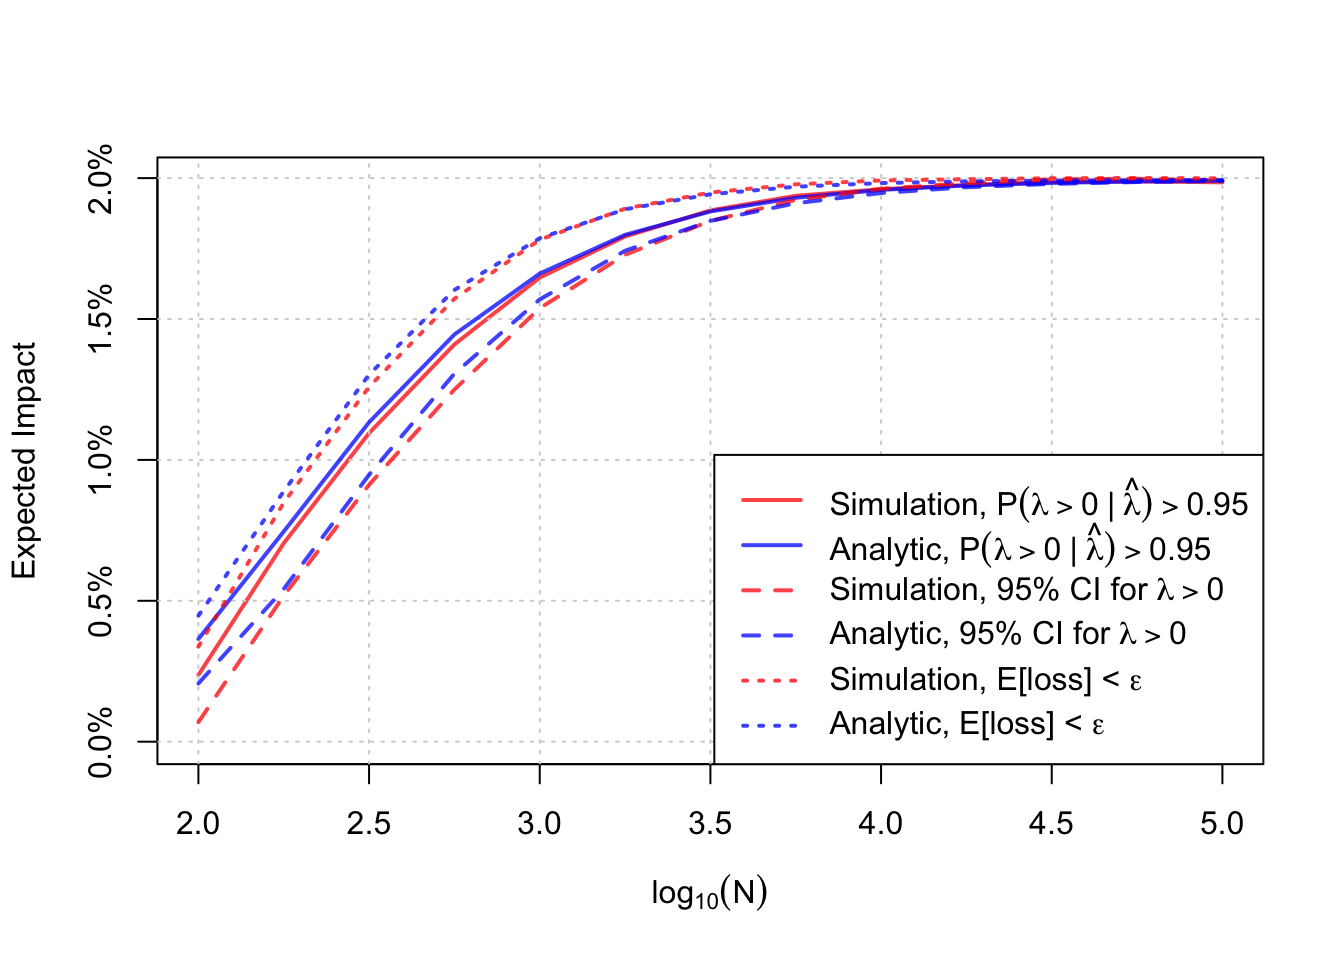
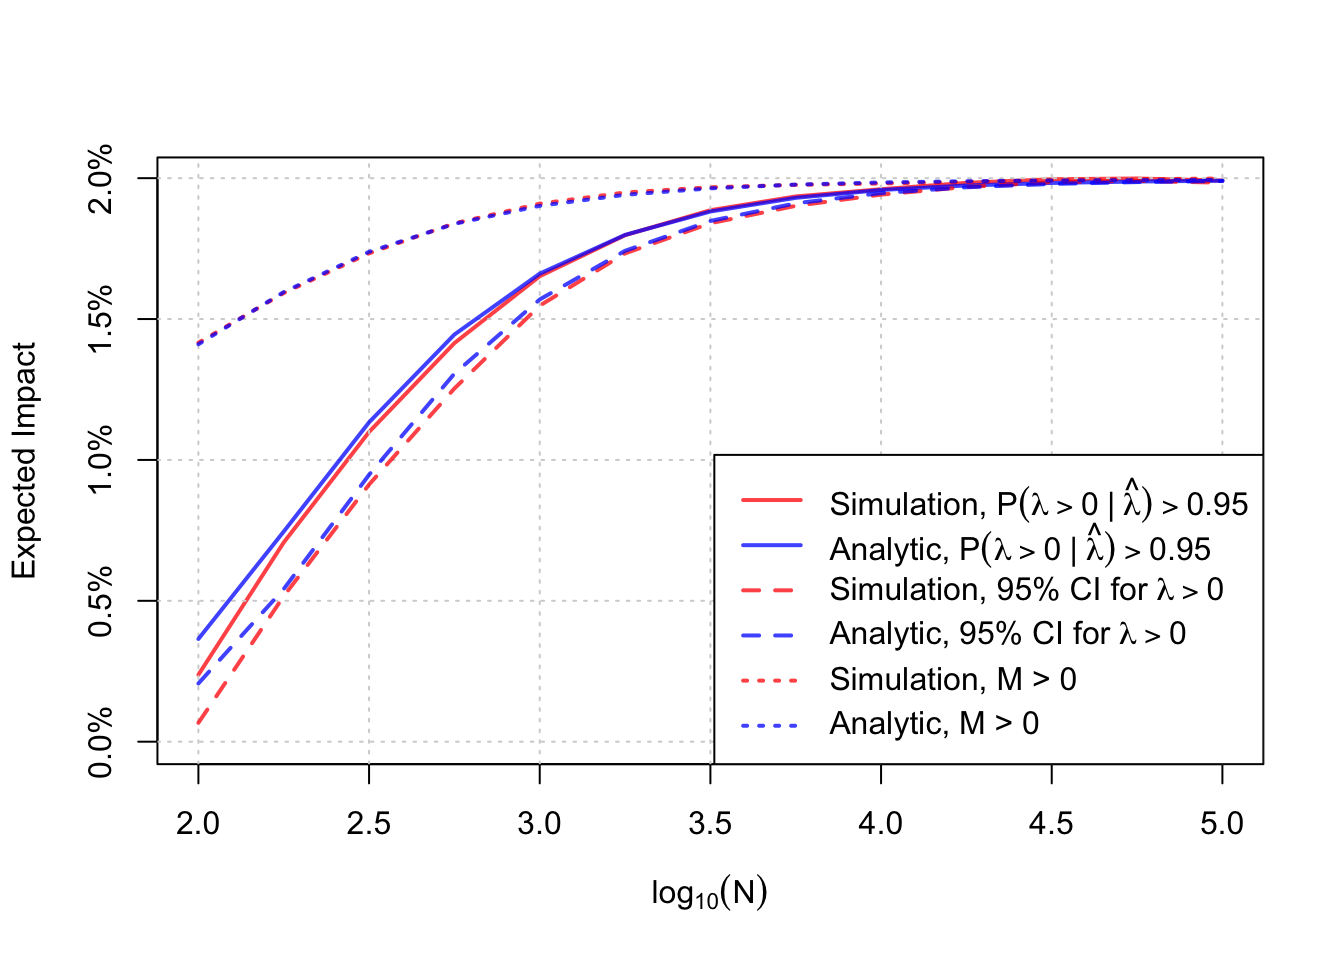
updates

diff --git a/docs/posts/2026-02-20-time/index.html b/docs/posts/2026-02-20-time/index.html
@@ -231,7 +231,7 @@ window.Quarto = {
 <ul>
 <li>Ship if <span class="math inline">\(c \lt \Pr(\lambda \gt 0 \mid \hat \lambda)\)</span>. This is sometimes called “Probability to beat control”.</li>
 <li>Ship if <span class="math inline">\(0 \lt M - z_{1-\alpha/2}\sqrt{V}\)</span>. This is like a Bayesian p-value being less than <span class="math inline">\(\alpha\)</span>.</li>
-<li>Ship if <span class="math inline">\(E[\mathcal{L}(\lambda)] &lt; \epsilon\)</span>. Here <span class="math inline">\(\mathcal{L}\)</span> is a loss function, and so the decision is based on expected loss being sufficiently small for the decision to ship the treatment. In what follows, I will use <span class="math inline">\(\mathcal{L}(\lambda) = \max(-\lambda, 0)\)</span>.</li>
+<li>Ship if <span class="math inline">\(0 \lt M\)</span>. Ship whenever the posterior mean is positive.</li>
 </ul>
 <p>Now, these are just a few ways to make decisions (they are certainly not exhaustive). Prior to Tyler’s talk, I didn’t really have a great way to answer how long an A/B test should take (save some ramblings about EVSI <a href="../../posts/2024-09-01-ab-length/index.html">here</a>) were you to use a Bayesian analysis method. However, with these details, I think I can now give an answer.</p>
 </section>
@@ -262,7 +262,7 @@ window.Quarto = {
 </div>
 </div>
 </div>
-<p>Below is a plot of the mean of this distribution as a function of sample size, and you can see this limiting behavior quite clearly. The proposal is to base your run time on the expectation of the Clairvoyant distribution. From the plot, running A/B tests too short means the impact is going to be very small on average, but running longer means that (under the prior) you will impact the product more. There comes a point where running the test longer is not helpful, you encounter diminishing returns. This is a nice way to think about run time in my opinion! You know what your average impact would be were you to have perfect information, and you can collect enough samples so that you are sufficiently close to this without wasting time obtaining additional samples. I think that is pretty elegant!</p>
+<p>Below is a plot of the mean of this distribution as a function of sample size, and you can see this limiting behavior quite clearly. The proposal is to base your run time on the expectation of the Clairvoyant distribution. From the plot, running A/B tests too short means the impact is going to be very small on average, but running longer means that (under the prior) you will impact the product more. There comes a point where running the test longer is not helpful because you encounter diminishing returns. This is a nice way to think about run time in my opinion! You know what your average impact would be were you to have perfect information, and you can collect enough samples so that you are sufficiently close to this without wasting time obtaining additional samples. I think that is pretty elegant!</p>
 <div class="cell">
 <div class="cell-output-display">
 <div class="quarto-figure quarto-figure-center">
@@ -302,12 +302,12 @@ window.Quarto = {
 </div>
 </div>
 </div>
-<p>This sort of exercise can be done for the remaining two decision rules. While I leave that exercise to the reader (or perhaps to their AI), I will leave you with just a plot comparing the analytic formulae and the simulations.</p>
+<p>This sort of exercise can be done for the remaining two decision rules. Shown below is a plot comparing the analytic formulae and simulations for all three decision rules.</p>
 <div class="cell">
 <div class="cell-output-display">
 <div class="quarto-figure quarto-figure-center">
 <figure class="figure">
-<figcaption>Simulated (red) and analytic (blue) expected impact curves for three decision rules: probability to beat control (solid, <span class="math inline">\(c = 0.95\)</span>), 95% credible interval excluding zero (dashed), and expected loss (dotted, <span class="math inline">\(\epsilon = 0.001\)</span>). The expected loss rule is the most permissive, shipping more often and yielding higher average impact at each sample size.</figcaption>
+<figcaption>Simulated (red) and analytic (blue) expected impact curves for three decision rules: probability to beat control (solid, <span class="math inline">\(c = 0.95\)</span>), 95% credible interval excluding zero (dashed), and M &gt; 0 (dotted, ship if posterior mean is positive). The M &gt; 0 rule is the most permissive, shipping more often and yielding higher average impact at each sample size.</figcaption>
 <p><img src="index_files/figure-html/comparisons-1.png" class="img-fluid figure-img" width="672"></p>
 </figure>
 </div>

diff --git a/docs/index.html b/docs/index.html
@@ -228,7 +228,7 @@ window.Quarto = {
 
 <div class="quarto-listing quarto-listing-container-default" id="listing-listing">
 <div class="list quarto-listing-default">
-<div class="quarto-post image-right" data-index="0" data-categories="" data-listing-date-sort="1771563600000" data-listing-file-modified-sort="1771707371227" data-listing-date-modified-sort="NaN" data-listing-reading-time-sort="24" data-listing-word-count-sort="4730">
+<div class="quarto-post image-right" data-index="0" data-categories="" data-listing-date-sort="1771563600000" data-listing-file-modified-sort="1771727882215" data-listing-date-modified-sort="NaN" data-listing-reading-time-sort="23" data-listing-word-count-sort="4503">
 <div class="thumbnail">
 <p><a href="./posts/2026-02-20-time/index.html" class="no-external"></a></p><a href="./posts/2026-02-20-time/index.html" class="no-external">
 <p class="card-img-top"><img src="posts/2026-02-20-time/index_files/figure-html/example-procedure-1.png"  class="thumbnail-image card-img"/></p>
